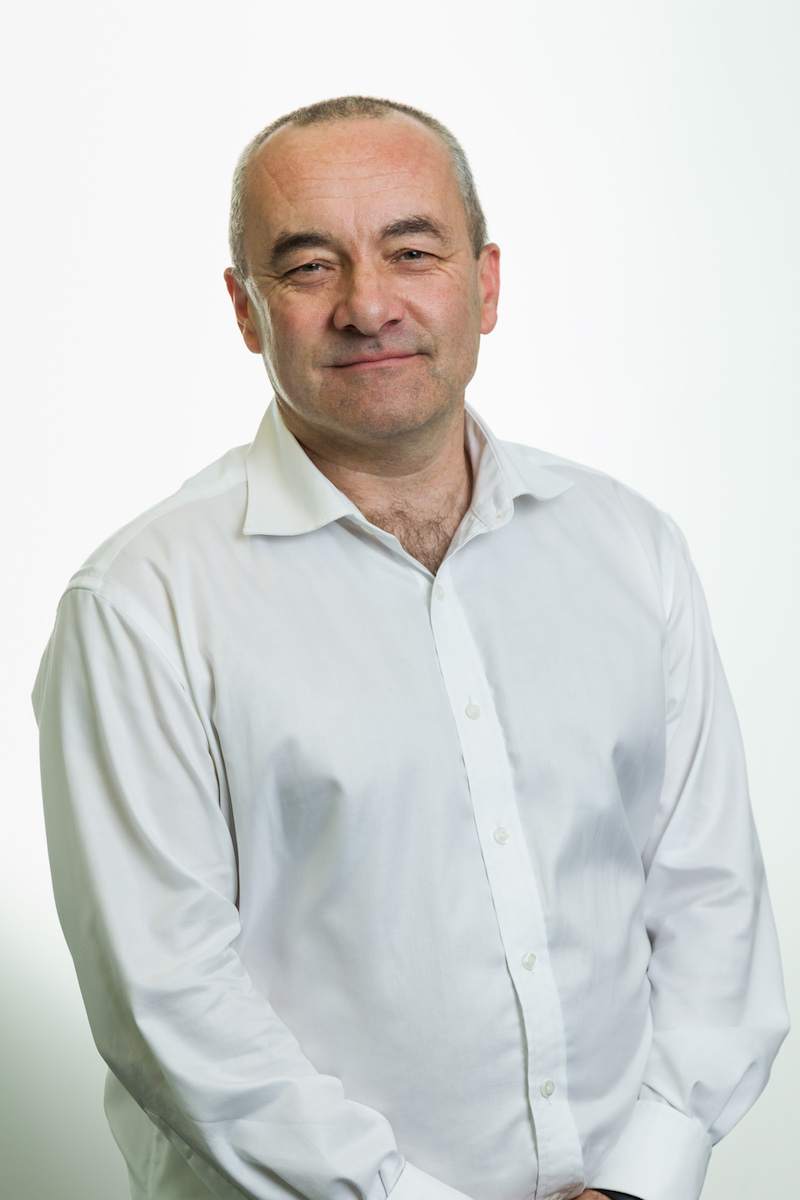
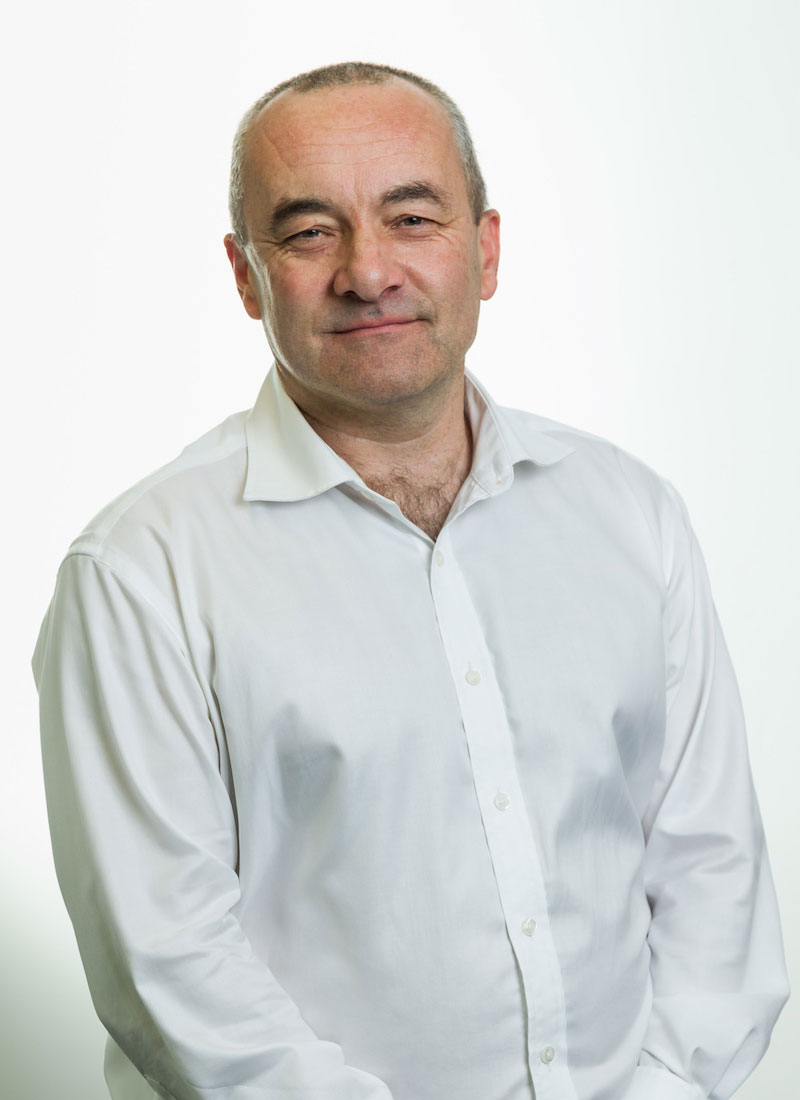
update team bios + about page

diff --git a/src/components/TeamGrid.css b/src/components/TeamGrid.css
@@ -29,18 +29,22 @@
 
 @media (min-width: 600px) {
   .TeamGrid {
-    grid-template-columns: 1fr 1fr 1fr;
+    grid-template-columns: 1fr 1fr 1fr 1fr;
   }
 }
 
 .TeamGrid--Item--Image {
   display: block;
+  height: 20rem;
   margin-bottom: 3rem;
   transition: all 0.3s ease-in-out;
   width: 100%;
-  height: auto;
   filter: grayscale(100%);
   opacity: 0.8;
+}
+
+.TeamGrid--Item--Image img {
+  object-position: top !important;
 }
 
 .TeamGrid--Item--Title {
@@ -53,6 +57,7 @@
 }
 
 .TeamGrid--Item--Hover {
+  height: 20rem;
   background-position: center;
   background-repeat: no-repeat;
   bottom: 20%;

diff --git a/src/templates/AboutPage.js b/src/templates/AboutPage.js
@@ -49,6 +49,10 @@ export class AboutPageTemplate extends React.Component {
               <h2 style={{ marginBottom: '4rem' }}>Team</h2>
               <TeamGrid team={team} />
             </div>
+
+            <Link to="/contact/" strong icon="page" arrow="right" scrollButton>
+              Contact us
+            </Link>
           </section>
         )}
       </main>
@@ -101,6 +105,7 @@ export const pageQuery = graphql`
           }
           frontmatter {
             title
+            order
             image {
               ...NoBlurImage
             }

diff --git a/content/team/kate-whylie.md b/content/team/kate-whylie.md
@@ -1,9 +1,16 @@
 ---
 template: TeamMember
+order: 6
 slug: team/kate-whylie
 title: Kate Whylie
 image: /images/team/kate-whylie.jpg
 position: Director of Customer Success
 description: |-
-  Kate Wylie oversees Healthcare Logic’s complete customer journey including: sales, marketing, communications, implementation and end user support. Kate leads a gifted customer success team and injects innovative strategies to deliver a standout value-based offering and service. Her impressive track record includes conceptionalising and managing the adoption of the Gold Coast Health Service’s multi-award winning Management Information System across 60 public hospitals that saw over 2,700 stakeholders engaged in Queensland with additional executive level management. Kate draws from a unique depth of knowledge with 10 years of experience in service improvement leadership combined with an additional 10 years in healthcare delivery as an Occupational Therapist. Her talent lies in translating insights gained from reviewing data analytics into solutions and has been responsible for many successful change programs introduced to improve patient and performance outcomes at several health services. Kate holds a Masters of Business Administration and is a Fellow of Queensland University of Technology’s Centre for Emergency and Disaster Management with pertinent research in contemporary models of care within Emergency Departments.
+  Kate Wylie oversees Healthcare Logic’s complete customer journey including: sales, marketing, communications, implementation and end user support. Kate leads a gifted customer success team and injects innovative strategies to deliver a standout value-based offering and service.
+
+  Her impressive track record includes conceptionalising and managing the adoption of the Gold Coast Health Service’s multi-award winning Management Information System across 60 public hospitals that saw over 2,700 stakeholders engaged in Queensland with additional executive level management.
+
+  Kate draws from a unique depth of knowledge with 10 years of experience in service improvement leadership combined with an additional 10 years in healthcare delivery as an Occupational Therapist. Her talent lies in translating insights gained from reviewing data analytics into solutions and has been responsible for many successful change programs introduced to improve patient and performance outcomes at several health services.
+
+  Kate holds a Masters of Business Administration and is a Fellow of Queensland University of Technology’s Centre for Emergency and Disaster Management with pertinent research in contemporary models of care within Emergency Departments.
 ---

diff --git a/content/team/martin-connor.md b/content/team/martin-connor.md
@@ -1,9 +1,14 @@
 ---
 template: TeamMember
+order: 5
 slug: team/martin-connor
 title: Professor Martin Connor
 image: /images/team/martin-connor.jpg
 position: Founder and CEO
 description: |-
-  In a health career spanning 17 years and four countries, Professor Martin Connor has successfully delivered large-scale national and regional programs focused on hospital performance. He has held a number of senior academic, executive and strategic management positions in the United Kingdom, Republic of Ireland, United States and Australia, and developed a reputation as a thought-leader in healthcare innovation, having been published in the British Medical Journal and Social Science and Medicine. Martin designed and led the implementation of Queensland Health’s MIS, a precursor to SystemView, across more than 50 hospitals. He previously acted as special advisor to the Republic of Ireland government during the GFC from 2011–13 and held a fellowship at Stanford University as a Commonwealth Fund Harkness Fellow in International Health Policy and Practice.
+  Professor Martin Connor is the founder of Healthcare Logic, the company that developed SystemView - a hospital performance improvement platform deployed in over 60 hospitals. The revolutionary technology automates capacity and demand analysis to help clinical and managerial leaders optimise care processes through high-frequency, patient/doctor-level, web-based analytics. SystemView delivers significant value to health services - it fosters collaboration, empowers teams, and supplies major improvements to patient access and productivity.
+
+  Over almost 20 years, Martin has held senior academic, executive and strategic management positions in Australia, the United Kingdom, Northern Ireland, Republic of Ireland, and the USA. Considered a thought leader in healthcare innovation, his work has been published in leading journals including the British Medical Journal and Social Science and Medicine.
+
+  Healthcare Logic is a values-based business, rooted in public health service. Martin is focused on building sound and lasting relationships with all stakeholders. He leads a team proudly engaged on relational and technical qualities resulting in a highly diverse, collaborative and supportive culture.
 ---

diff --git a/content/team/christopher-ogg.md b/content/team/christopher-ogg.md
@@ -1,9 +1,16 @@
 ---
 template: TeamMember
+order: 7
 slug: team/christopher-ogg
 title: Associate Professor Christopher Ogg
 image: /images/team/christopher-ogg.jpg
 position: Director Research and Development
 description: |-
-  With an academic background in Applied Mathematics, a PhD in Microbiology and Genomics and industry experience focused on analytics, Christopher Ogg was the lead logic designer for the MIS program that forms the basis of SystemView. As well as directly developing the algorithms and visualisations that underpin the solution, his ability to engage and stimulate clinical teams enables him to provide viscerally meaningful information to leaders for sustainable improvements in performance.
+  Associate Professor Christopher Ogg is a co-founder of Healthcare Logic and leads its research and development function with a talented team of mathematicians, business analysts and data scientists.
+
+  Working closely with hospital executives and clinical leaders, Christopher establishes business logic, algorithms and visualisations to support engagement and sustained hospital performance. He has a unique ability to stimulate clinical teams and translate how data needs to be presented in order to create a visceral response from leaders resulting in sustainable improvements in performance.
+
+  Christopher is responsible for driving Healthcare Logic’s growing applied predictive statistics workstream which leverages the latest in predictive modelling and machine-learning in collaboration with world- leading statisticians to provide improved insights, system performance and outcomes.
+
+  Christopher has an academic background in applied mathematics and science, and completed his PhD in Microbiology and Genomics in 2011. His work has been published in nine first author publications including: the International Journal of Systematic and Evolutionary Microbiology, Journal of Bacteriology, 3 Biotech, and a book chapter Exploring the Ecology of Thermophiles from Australia’s Great Artesian Basin During the Genomic Era in Thermophilic microbes in environmental and industrial biotechnology (2013). He brings almost ten years of experience in analytics and consulting, specialising in hospital management and performance improvement.
 ---

diff --git a/content/team/andrew-ge-hall.md b/content/team/andrew-ge-hall.md
@@ -1,9 +1,16 @@
 ---
 template: TeamMember
+order: 8
 slug: team/andrew-ge-hall
 title: Andrew Ge-Hall
 image: /images/team/andrew-ge-hall.jpg
 position: Director Software Development
 description: |-
-  Andrew Ge-Hall has worked in academia and public health for 15 years, spanning software development, business intelligence and organisational administration. While managing the integration and platform team for the precursor to SystemView, he designed the system architecture that allows it to support delivery of high-frequency application refresh to more than 50 hospitals. Inspired by the latest development methods and technologies, Andrew now leads the teams that have created SystemView and other cutting-edge products.
+  Andrew Ge-Hall is the head of technological design and integration, he leads a brilliant team of data engineers and web developers, and oversees cybersecurity measures.
+
+  SystemView is inspired by the latest development methods and technologies. While the front-end is intuitive and notably uncluttered, its sophisticated system architecture operates seamlessly in complex and data-rich environments. It draws from diverse healthcare source systems, translates daily operations, resource modelling and corporate reporting into a holistic operational performance management tool. It has close to real-time refresh rates and is available to thousands of users per health service, each with personalised preferences, discussion boards and email/SMS reminders.
+
+  Andrew’s extensive knowledge in the following specialties has made SystemView possible - QlikView, Business Objects, Datawarehousing, MS SQL Server 2000-2017, SQL Server Integration Services, Java, Full Stack Devops management, Certified Scrum Master, and more.
+
+  He brings over 10 years of experience in software development and business intelligence within the health sector, with a significant accomplishment of designing the architecture behind Gold Coast Health Service’s multi-award winning Management Information System deployed in over 60 hospitals. Remarkably, he concurrently lectured at Ballarat University and several business schools for 15 years.
 ---

diff --git a/content/team/brett-thebault.md b/content/team/brett-thebault.md
@@ -1,6 +1,7 @@
 ---
 template: TeamMember
 slug: team/brett-thebault
+order: 2
 title: Brett Thebault
 image: /images/team/brett-thebault.jpg
 position: Board Director

diff --git a/content/team/suzanne-yeates.md b/content/team/suzanne-yeates.md
@@ -1,5 +1,6 @@
 ---
 template: TeamMember
+order: 3
 slug: team/suzanne-yeates
 title: Suzanne Yeates
 image: /images/team/suzanne-yeates.jpg

diff --git a/content/team/andy-hill.md b/content/team/andy-hill.md
@@ -1,5 +1,6 @@
 ---
 template: TeamMember
+order: 1
 slug: team/andy-hill
 title: Andy Hill
 image: /images/team/andy-hill.jpg
